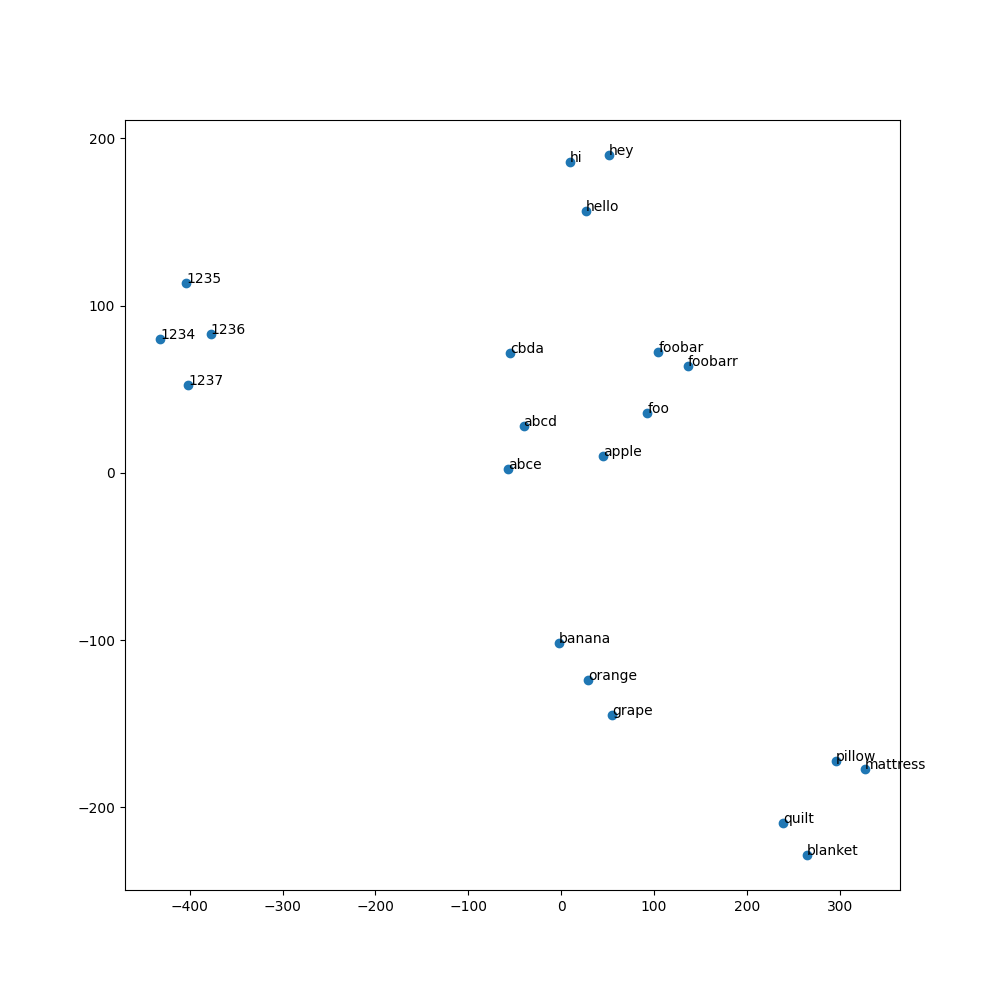
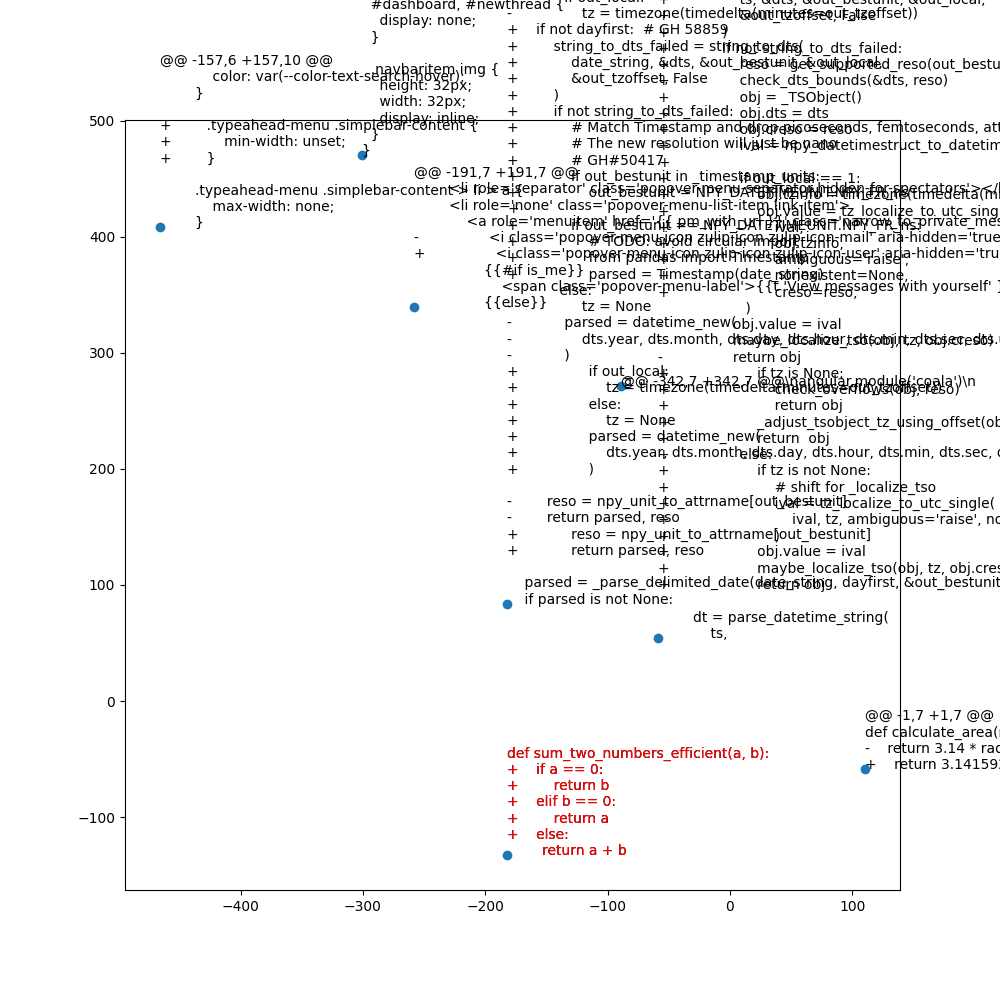
sfd

diff --git a/visualization.py b/visualization.py
@@ -14,43 +14,22 @@ def embedding(text):
 
 from pycozo.client import Client
 
-# client = Client('sqlite', 'explanations.db', dataframe=False)
+client = Client('sqlite', 'explanations.db', dataframe=False)
 
-# script = """
-# ?[code, code_embedding, commit_message, llm_explanation] := *code_explanations[code, code_embedding, commit_message, llm_explanation]
-# """
+script = """
+?[code, code_embedding, commit_message, llm_explanation] := *code_explanations[code, code_embedding, commit_message, llm_explanation]
+"""
 
-# try:
-#   res = client.run(script)['rows']
-#   # print(res)
-# except Exception as e:
-#   print(f"An error occurred: {e}")
+try:
+  res = client.run(script)['rows']
+  # print(res)
+except Exception as e:
+  print(f"An error occurred: {e}")
 
-# client.close()
+client.close()
 
-res = [
-  ['abcd', embedding('abcd')],
-  ['abce', embedding('abce')],
-  ['1234', embedding('1234')],
-  ['1235', embedding('1235')],
-  ['1236', embedding('1236')],
-  ['1237', embedding('1237')],
-  ['cbda', embedding('cbda')],
-  ['foobar', embedding('foobar')],
-  ['foobarr', embedding('foobarr')],
-  ['foo', embedding('foo')],
-  ['quilt', embedding('quilt')],
-  ['mattress', embedding('mattress')],
-  ['pillow', embedding('pillow')],
-  ['blanket', embedding('blanket')],
-  ['hello', embedding('hello')],
-  ['hi', embedding('hi')],
-  ['hey', embedding('hey')],
-  ['apple', embedding('apple')],
-  ['banana', embedding('banana')],
-  ['orange', embedding('orange')],
-  ['grape', embedding('grape')]
-]
+# res = [
+# ]
 
 df = []
 
@@ -71,7 +50,7 @@ def tsne_perplexity(matrix, n):
   plt.scatter(vis_dims[:, 0], vis_dims[:, 1])
   for label, x, y in zip(res, vis_dims[:, 0], vis_dims[:, 1]):
     plt.annotate(label[0], xy=(x, y), xytext=(0, 0), textcoords='offset points')
-  # plt.annotate(res[-1][0], xy=(vis_dims[-1, 0], vis_dims[-1, 1]), xytext=(0, 0), textcoords='offset points', color='red')
+  plt.annotate(res[-1][0], xy=(vis_dims[-1, 0], vis_dims[-1, 1]), xytext=(0, 0), textcoords='offset points', color='red')
 
   plt.savefig(f'tsne_perplexity_test/tsne_perplexity_{str(n)}.png')
   plt.close()

diff --git a/README.md b/README.md
@@ -1,3 +1,47 @@
-# CozoDB
+# CozoDB Visualization for Code Changes
 
-![text](./tsne_perplexity_test/tsne_perplexity_5.0.png)
+## Data Preparation
+Data should be inserted into the `data.json` JSON file. The JSON file should contain a list of dictionaries, where each dictionary represents a data point. Each dictionary should contain the following keys:
+- `code`: The code change for the data point in diff format.
+- `repo`: The repository the code change belongs to.
+- `commit_id`: The commit ID of the code change.
+- `file`: The file the code change is from.
+- `commit_message`: The commit message for the code change.
+- `explanation`: An LLM generated explanation for the code change.
+
+After populating this JSON file, run `insert_data.py` to insert the data into the CozoDB database.
+
+```bash
+python insert_data.py
+```
+
+## Visualization 
+To start the visualization process, run `visualization.py`. 
+
+```bash
+python visualization.py
+```
+
+By running `visualization.py`, the script will generate a visualization for each perplexity value from 0.5 to 51.0 in increments of 0.5 into the `visualizations/` folder in the following format:
+
+```
+visualization_perplexity_00.5.png
+visualization_perplexity_01.0.png
+visualization_perplexity_01.5.png
+...
+visualization_perplexity_50.5.png
+visualization_perplexity_51.0.png
+```
+
+The visualization will be a scatter plot of the t-SNE embeddings of the data points with labels containing the code change for each data point like the one shown below:
+![A scatter plot containing points for each code change.](./readme_images/vis_perplexity_5.0.png)
+
+## Vector Search
+To search for similar code changes to a given code change, run `search.py`. The script will prompt the user to input a code change in diff format. The script will then output the 5 most similar code changes to the input code change.
+
+```bash
+python search.py
+```
+
+It will also open a visualization of the code change in a separate window with perplexity=5, with the input code change highlighted in red, like the one shown below:
+![A scatter plot containing points for each code change with the input code change highlighted in red.](./readme_images/search_visualization.png)
